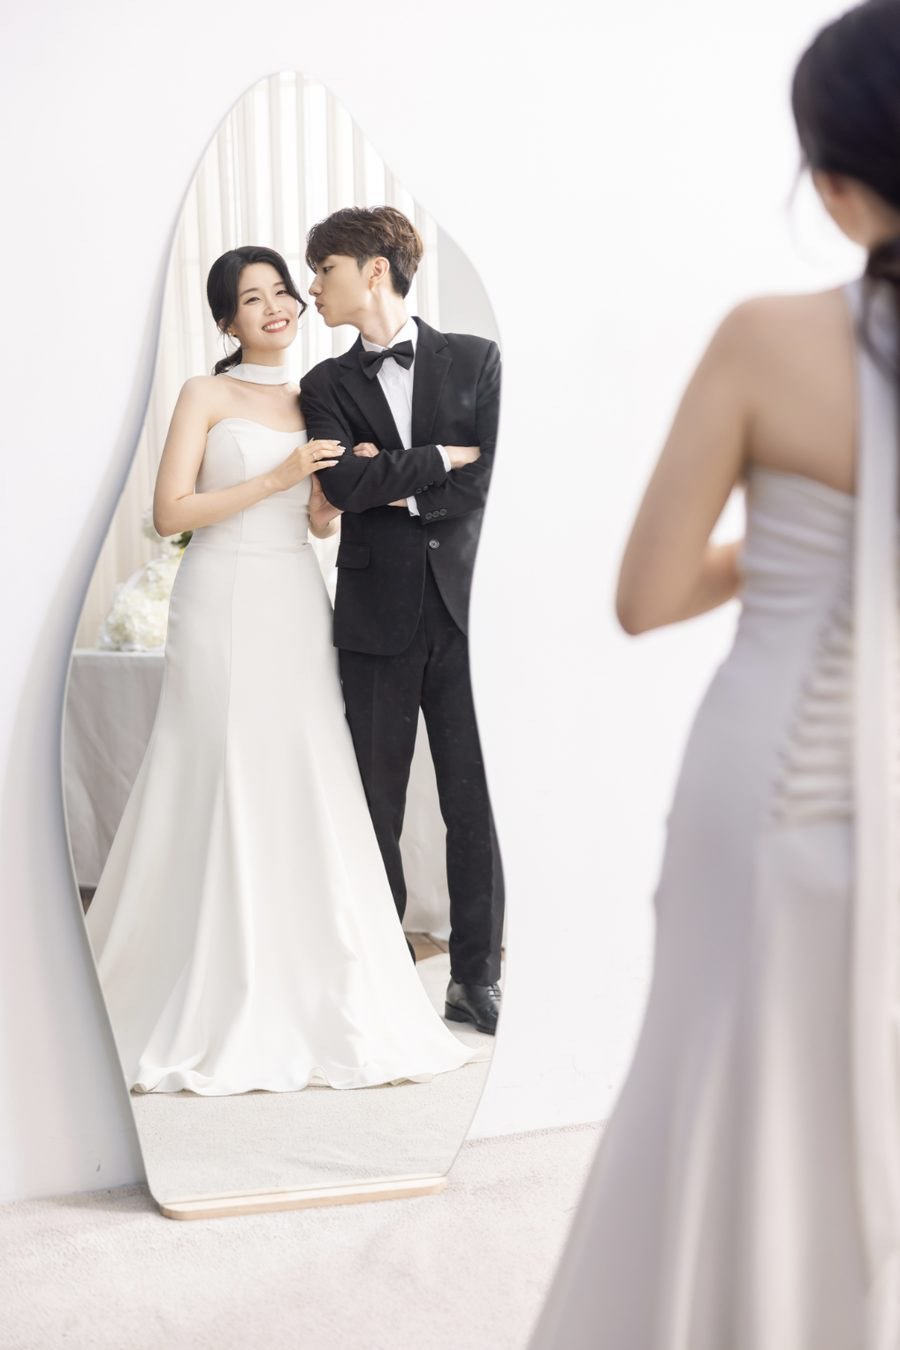
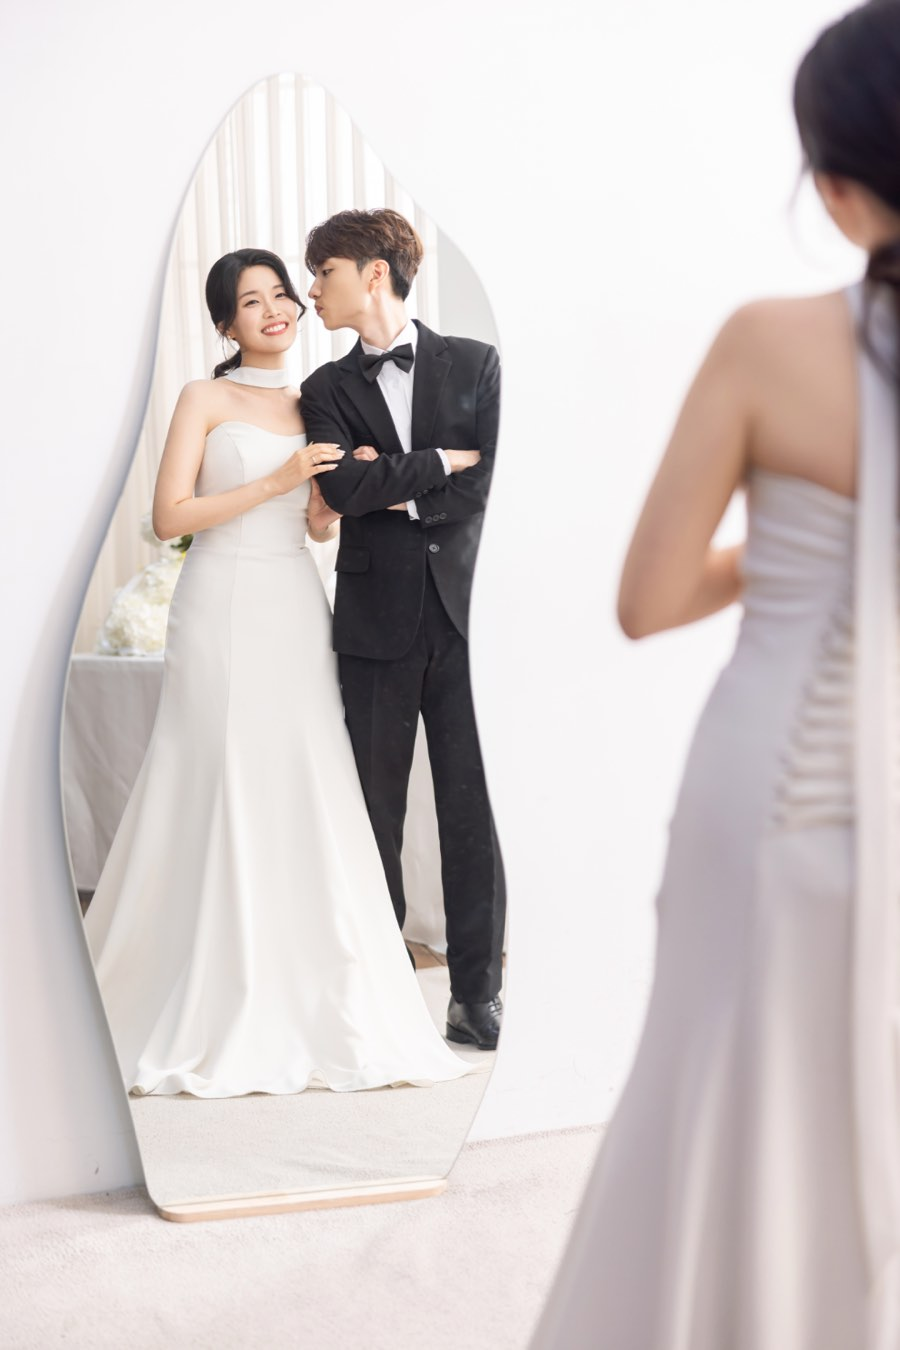
4번 사진(거울 앞 두 사람)을 새 보정본으로 교체
같은 거울 컷의 더 깨끗한 보정본입니다. 990x1490 (0.6644) -> 900x1350 으로
잘라 나머지 21장과 같은 2:3 (0.66667) 에 맞췄습니다.

거울 컷이라 NO_RECENTER 를 그대로 적용했습니다 — 왼쪽 거울 + 오른쪽
아웃포커스 인물의 의도된 비대칭 구도라 가로로 옮기지 않고, 높이만 5px
깎았습니다. 얼굴 2개가 인식돼 세로 위치는 머리가 잘리지 않게 잡혔습니다.

파일명이 그대로라 캐시 버전을 ?v=6 -> ?v=7 로 올렸습니다.

확인: 22장 비율 전부 0.66667(+가로 1장), 썸네일<->원본 22쌍 픽셀 대조
전부 일치, 캐시 없는 프로필에서 로드 실패 0건 / 버전 누락 0건,
4번 탭 -> g04.jpg "4 / 22" 정상.

Assisted-by: Claude Code (Opus 5)

diff --git a/index.html b/index.html
@@ -10,7 +10,7 @@
 <meta property="og:title" content="이수영 ♥ 이정은 결혼합니다">
 <meta property="og:description" content="2026년 12월 12일 토요일 오후 4시, 세인트메리엘 1층 메리엘홀">
 <meta property="og:url" content="https://suyoung-lee.github.io/wedding/">
-<meta property="og:image" content="https://suyoung-lee.github.io/wedding/assets/og.jpg?v=6">
+<meta property="og:image" content="https://suyoung-lee.github.io/wedding/assets/og.jpg?v=7">
 <meta name="description" content="2026년 12월 12일 토요일 오후 4시, 세인트메리엘 1층 메리엘홀">
 <meta name="theme-color" content="#fbfaf7">
 
@@ -283,7 +283,7 @@
   <!-- ══════════ 표지 ══════════ -->
   <header class="cover">
     <div class="photo noSave">
-      <img src="assets/cover.jpg?v=6" alt="신랑 이수영, 신부 이정은" draggable="false">
+      <img src="assets/cover.jpg?v=7" alt="신랑 이수영, 신부 이정은" draggable="false">
     </div>
     <div class="fade"></div>
     <div class="frame"></div>
@@ -354,28 +354,28 @@
   <section>
     <p class="label">Gallery</p>
     <div class="grid collapsed noSave" id="grid">
-      <button class="ph wide" type="button" data-full="assets/g01.jpg?v=6" aria-label="웨딩 사진 1번, 크게 보기"><img src="assets/wide.jpg?v=6" alt="" loading="lazy"></button>
-      <button class="ph" type="button" data-full="assets/g02.jpg?v=6" aria-label="웨딩 사진 2번, 크게 보기"><img src="assets/t02.jpg?v=6" alt="" loading="lazy"></button>
-      <button class="ph" type="button" data-full="assets/g03.jpg?v=6" aria-label="웨딩 사진 3번, 크게 보기"><img src="assets/t03.jpg?v=6" alt="" loading="lazy"></button>
-      <button class="ph" type="button" data-full="assets/g04.jpg?v=6" aria-label="웨딩 사진 4번, 크게 보기"><img src="assets/t04.jpg?v=6" alt="" loading="lazy"></button>
-      <button class="ph" type="button" data-full="assets/g05.jpg?v=6" aria-label="웨딩 사진 5번, 크게 보기"><img src="assets/t05.jpg?v=6" alt="" loading="lazy"></button>
-      <button class="ph" type="button" data-full="assets/g06.jpg?v=6" aria-label="웨딩 사진 6번, 크게 보기"><img src="assets/t06.jpg?v=6" alt="" loading="lazy"></button>
-      <button class="ph" type="button" data-full="assets/g07.jpg?v=6" aria-label="웨딩 사진 7번, 크게 보기"><img src="assets/t07.jpg?v=6" alt="" loading="lazy"></button>
-      <button class="ph" type="button" data-full="assets/g08.jpg?v=6" aria-label="웨딩 사진 8번, 크게 보기"><img src="assets/t08.jpg?v=6" alt="" loading="lazy"></button>
-      <button class="ph" type="button" data-full="assets/g09.jpg?v=6" aria-label="웨딩 사진 9번, 크게 보기"><img src="assets/t09.jpg?v=6" alt="" loading="lazy"></button>
-      <button class="ph" type="button" data-full="assets/g10.jpg?v=6" aria-label="웨딩 사진 10번, 크게 보기"><img src="assets/t10.jpg?v=6" alt="" loading="lazy"></button>
-      <button class="ph" type="button" data-full="assets/g11.jpg?v=6" aria-label="웨딩 사진 11번, 크게 보기"><img src="assets/t11.jpg?v=6" alt="" loading="lazy"></button>
-      <button class="ph" type="button" data-full="assets/g12.jpg?v=6" aria-label="웨딩 사진 12번, 크게 보기"><img src="assets/t12.jpg?v=6" alt="" loading="lazy"></button>
-      <button class="ph" type="button" data-full="assets/g13.jpg?v=6" aria-label="웨딩 사진 13번, 크게 보기"><img src="assets/t13.jpg?v=6" alt="" loading="lazy"></button>
-      <button class="ph" type="button" data-full="assets/g14.jpg?v=6" aria-label="웨딩 사진 14번, 크게 보기"><img src="assets/t14.jpg?v=6" alt="" loading="lazy"></button>
-      <button class="ph" type="button" data-full="assets/g15.jpg?v=6" aria-label="웨딩 사진 15번, 크게 보기"><img src="assets/t15.jpg?v=6" alt="" loading="lazy"></button>
-      <button class="ph" type="button" data-full="assets/g16.jpg?v=6" aria-label="웨딩 사진 16번, 크게 보기"><img src="assets/t16.jpg?v=6" alt="" loading="lazy"></button>
-      <button class="ph" type="button" data-full="assets/g17.jpg?v=6" aria-label="웨딩 사진 17번, 크게 보기"><img src="assets/t17.jpg?v=6" alt="" loading="lazy"></button>
-      <button class="ph" type="button" data-full="assets/g18.jpg?v=6" aria-label="웨딩 사진 18번, 크게 보기"><img src="assets/t18.jpg?v=6" alt="" loading="lazy"></button>
-      <button class="ph" type="button" data-full="assets/g19.jpg?v=6" aria-label="웨딩 사진 19번, 크게 보기"><img src="assets/t19.jpg?v=6" alt="" loading="lazy"></button>
-      <button class="ph" type="button" data-full="assets/g20.jpg?v=6" aria-label="웨딩 사진 20번, 크게 보기"><img src="assets/t20.jpg?v=6" alt="" loading="lazy"></button>
-      <button class="ph" type="button" data-full="assets/g21.jpg?v=6" aria-label="웨딩 사진 21번, 크게 보기"><img src="assets/t21.jpg?v=6" alt="" loading="lazy"></button>
-      <button class="ph" type="button" data-full="assets/g22.jpg?v=6" aria-label="웨딩 사진 22번, 크게 보기"><img src="assets/t22.jpg?v=6" alt="" loading="lazy"></button>
+      <button class="ph wide" type="button" data-full="assets/g01.jpg?v=7" aria-label="웨딩 사진 1번, 크게 보기"><img src="assets/wide.jpg?v=7" alt="" loading="lazy"></button>
+      <button class="ph" type="button" data-full="assets/g02.jpg?v=7" aria-label="웨딩 사진 2번, 크게 보기"><img src="assets/t02.jpg?v=7" alt="" loading="lazy"></button>
+      <button class="ph" type="button" data-full="assets/g03.jpg?v=7" aria-label="웨딩 사진 3번, 크게 보기"><img src="assets/t03.jpg?v=7" alt="" loading="lazy"></button>
+      <button class="ph" type="button" data-full="assets/g04.jpg?v=7" aria-label="웨딩 사진 4번, 크게 보기"><img src="assets/t04.jpg?v=7" alt="" loading="lazy"></button>
+      <button class="ph" type="button" data-full="assets/g05.jpg?v=7" aria-label="웨딩 사진 5번, 크게 보기"><img src="assets/t05.jpg?v=7" alt="" loading="lazy"></button>
+      <button class="ph" type="button" data-full="assets/g06.jpg?v=7" aria-label="웨딩 사진 6번, 크게 보기"><img src="assets/t06.jpg?v=7" alt="" loading="lazy"></button>
+      <button class="ph" type="button" data-full="assets/g07.jpg?v=7" aria-label="웨딩 사진 7번, 크게 보기"><img src="assets/t07.jpg?v=7" alt="" loading="lazy"></button>
+      <button class="ph" type="button" data-full="assets/g08.jpg?v=7" aria-label="웨딩 사진 8번, 크게 보기"><img src="assets/t08.jpg?v=7" alt="" loading="lazy"></button>
+      <button class="ph" type="button" data-full="assets/g09.jpg?v=7" aria-label="웨딩 사진 9번, 크게 보기"><img src="assets/t09.jpg?v=7" alt="" loading="lazy"></button>
+      <button class="ph" type="button" data-full="assets/g10.jpg?v=7" aria-label="웨딩 사진 10번, 크게 보기"><img src="assets/t10.jpg?v=7" alt="" loading="lazy"></button>
+      <button class="ph" type="button" data-full="assets/g11.jpg?v=7" aria-label="웨딩 사진 11번, 크게 보기"><img src="assets/t11.jpg?v=7" alt="" loading="lazy"></button>
+      <button class="ph" type="button" data-full="assets/g12.jpg?v=7" aria-label="웨딩 사진 12번, 크게 보기"><img src="assets/t12.jpg?v=7" alt="" loading="lazy"></button>
+      <button class="ph" type="button" data-full="assets/g13.jpg?v=7" aria-label="웨딩 사진 13번, 크게 보기"><img src="assets/t13.jpg?v=7" alt="" loading="lazy"></button>
+      <button class="ph" type="button" data-full="assets/g14.jpg?v=7" aria-label="웨딩 사진 14번, 크게 보기"><img src="assets/t14.jpg?v=7" alt="" loading="lazy"></button>
+      <button class="ph" type="button" data-full="assets/g15.jpg?v=7" aria-label="웨딩 사진 15번, 크게 보기"><img src="assets/t15.jpg?v=7" alt="" loading="lazy"></button>
+      <button class="ph" type="button" data-full="assets/g16.jpg?v=7" aria-label="웨딩 사진 16번, 크게 보기"><img src="assets/t16.jpg?v=7" alt="" loading="lazy"></button>
+      <button class="ph" type="button" data-full="assets/g17.jpg?v=7" aria-label="웨딩 사진 17번, 크게 보기"><img src="assets/t17.jpg?v=7" alt="" loading="lazy"></button>
+      <button class="ph" type="button" data-full="assets/g18.jpg?v=7" aria-label="웨딩 사진 18번, 크게 보기"><img src="assets/t18.jpg?v=7" alt="" loading="lazy"></button>
+      <button class="ph" type="button" data-full="assets/g19.jpg?v=7" aria-label="웨딩 사진 19번, 크게 보기"><img src="assets/t19.jpg?v=7" alt="" loading="lazy"></button>
+      <button class="ph" type="button" data-full="assets/g20.jpg?v=7" aria-label="웨딩 사진 20번, 크게 보기"><img src="assets/t20.jpg?v=7" alt="" loading="lazy"></button>
+      <button class="ph" type="button" data-full="assets/g21.jpg?v=7" aria-label="웨딩 사진 21번, 크게 보기"><img src="assets/t21.jpg?v=7" alt="" loading="lazy"></button>
+      <button class="ph" type="button" data-full="assets/g22.jpg?v=7" aria-label="웨딩 사진 22번, 크게 보기"><img src="assets/t22.jpg?v=7" alt="" loading="lazy"></button>
     </div>
     <button class="more" type="button" id="more">사진 더보기<span class="chev" aria-hidden="true"></span></button>
   </section>
@@ -388,8 +388,8 @@
     <h2>세인트메리엘</h2>
     <p class="sub">1층 메리엘홀</p>
 
-    <a class="mapWrap noSave" href="assets/map-full.png?v=6" target="_blank" rel="noopener">
-      <img src="assets/map.png?v=6" alt="세인트메리엘 약도" loading="lazy" draggable="false">
+    <a class="mapWrap noSave" href="assets/map-full.png?v=7" target="_blank" rel="noopener">
+      <img src="assets/map.png?v=7" alt="세인트메리엘 약도" loading="lazy" draggable="false">
     </a>
     <p class="mapHint">약도를 누르면 크게 볼 수 있습니다</p>
 

diff --git a/build_assets.py b/build_assets.py
@@ -18,8 +18,8 @@ OUT = "assets"
 # index.html 의 이미지 URL 뒤 ?v=N 캐시 버전. 파일명을 그대로 두고 사진 내용만
 # 바꾸면 이미 청첩장을 열어본 브라우저가 캐시된 옛 사진을 계속 보여줍니다
 # (썸네일만 바뀌고 뷰어는 옛 사진이 뜨는 식). 사진을 갈아끼울 때마다 올리세요.
-#   sed -i '' 's/?v=[0-9]*/?v=7/g' index.html
-ASSET_V = 6
+#   sed -i '' 's/?v=[0-9]*/?v=8/g' index.html
+ASSET_V = 7
 os.makedirs(OUT, exist_ok=True)
 
 A = lambda n: os.path.join(SRC, f"KakaoTalk_20260909_203020487{n}.png")
@@ -37,7 +37,7 @@ ORDER = [
     # 화이트 스튜디오 (거울)
     (A("_04"), "화이트 스튜디오 - 거울 앞 신부"),
     (N("B_거울앞신랑"),   "화이트 스튜디오 - 거울 앞 신랑"),
-    (A("_05"), "화이트 스튜디오 - 거울 앞 두 사람"),
+    (N("F_거울앞두사람"), "화이트 스튜디오 - 거울 앞 두 사람"),
     # 화이트 스튜디오 (케이크 / 머메이드)
     (A("_03"), "화이트 스튜디오 - 케이크와 함께"),
     (N("C_머메이드"),     "화이트 홀 - 머메이드 드레스"),
@@ -74,7 +74,7 @@ FACE = [
     (0.569, 0.213),   #  1 드레스 전신
     (0.259, 0.236),   #  2 거울 앞 신부
     (0.522, 0.193),   #  3 거울 앞 신랑      (거울 속 반영 + 실제 인물 둘 다 인식됨)
-    (0.342, 0.223),   #  4 거울 앞 두 사람
+    (0.342, 0.221),   #  4 거울 앞 두 사람
     (0.482, 0.212),   #  5 케이크
     (0.678, 0.360),   #  6 머메이드 드레스
     (0.495, 0.193),   #  7 아이보리 신랑
